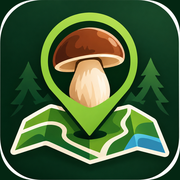
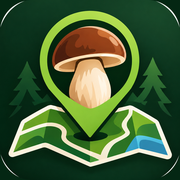
Podgląd do udostępniania i opis strony
Obrazek og.png, znaczniki Open Graph i opis dla wyszukiwarek;
logo i ikonki przycięte bez białej obwódki.

Claude-Session: https://claude.ai/code/session_01W8AE1cpu71hpjTNCqUSZ4H

diff --git a/index.html b/index.html
@@ -4,6 +4,16 @@
 <meta charset="utf-8">
 <meta name="viewport" content="width=device-width, initial-scale=1, viewport-fit=cover">
 <meta name="theme-color" content="#0b3a1f">
+<meta name="description" content="Gdzie dziś na grzyby? Mapa szansy na prawdziwki, podgrzybki, koźlarze, kurki i maślaki w każdym wydzieleniu 33 nadleśnictw Dolnego Śląska, z pogodą, porą roku i zakazami wstępu. Za darmo, bez reklam.">
+<meta property="og:type" content="website">
+<meta property="og:locale" content="pl_PL">
+<meta property="og:title" content="Grzybowa mapa Dolnego Śląska">
+<meta property="og:description" content="Gdzie dziś na grzyby? Szansa dla każdego kawałka lasu w 33 nadleśnictwach, z pogodą i porą roku. Za darmo, bez reklam.">
+<meta property="og:url" content="https://michajster.github.io/grzybowa_mapa/">
+<meta property="og:image" content="https://michajster.github.io/grzybowa_mapa/og.png">
+<meta property="og:image:width" content="1200">
+<meta property="og:image:height" content="630">
+<meta name="twitter:card" content="summary_large_image">
 <link rel="icon" type="image/png" sizes="32x32" href="logo-32.png">
 <link rel="icon" type="image/png" sizes="192x192" href="logo-192.png">
 <link rel="apple-touch-icon" href="apple-touch-icon.png">
